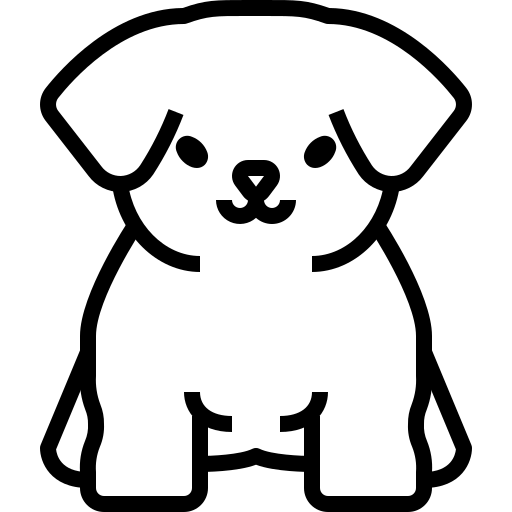
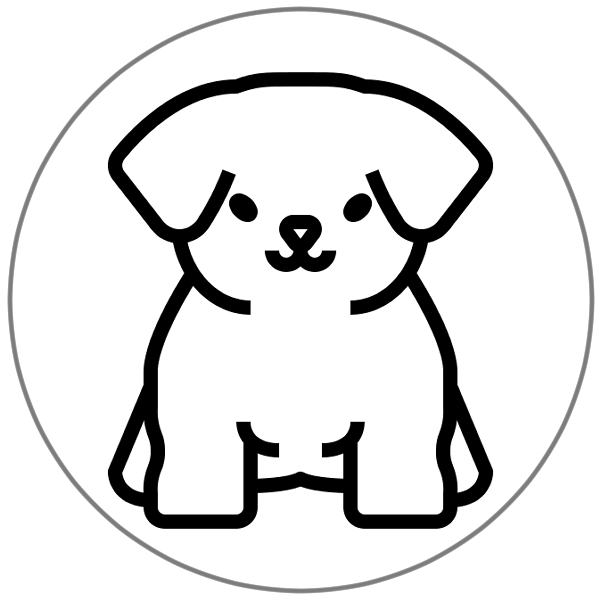
펫 프로필 수정화면에서도 사진 추가, 삭제 시 이미지 수정됨 강아지 기본 이미지 수정

diff --git a/TeamProject/TeamProject/PetModifyScreen.java b/TeamProject/TeamProject/PetModifyScreen.java
@@ -22,12 +22,13 @@ import java.util.Arrays;
 import java.util.Date;
 
 public class PetModifyScreen extends JFrame {
+	
 	private BufferedImage image;
-	private JLabel backLabel, petProfileLabel, deleteLabel, imageLabel, calLabel;
-	private JLabel petNameLabel, petSpecLabel, petBirthLabel, petGenderLabel, petMaleLabel, petFemaleLabel, petDeleteLabel,
+	private JLabel backLabel, petProfileLabel, deleteLabel, calLabel;
+	private JLabel petNameLabel, petSpecLabel, petBirthLabel, petGenderLabel, petMaleLabel, petFemaleLabel,
 			warningLabel;
 	private JTextField petNameTField, petSpecTField, petBirthTField;
-	private JButton petAddProButton, petSpSearchButton, petModifyButton, completionButton;
+	private JButton petAddProButton, petSpSearchButton, petModifyButton, petDeleteButton, completionButton;
 	private JRadioButton petMaleRdButton, petFemaleRdBotton;
 	private String name, spec, birth;
 	TPMgr mgr;
@@ -35,6 +36,7 @@ public class PetModifyScreen extends JFrame {
 	private PetPhotoModifyDialog ppm;
 	private byte[] imageBytes; // 이미지 데이터를 저장할 멤버 변수
 	boolean flag = true;
+	private RoundedImageLabel imageLabel;
 	
 	public PetModifyScreen(JFrame preFrame) {
 		setTitle("프레임 설정");
@@ -103,10 +105,8 @@ public class PetModifyScreen extends JFrame {
 						dispose();
 						new PetHomeScreen(StaticData.pet_id);
 					}
-				} else if (source == petDeleteLabel && petDeleteLabel.isEnabled()) {
+				} else if (source == petDeleteButton && petDeleteButton.isEnabled()) {
 					System.out.println("반려동물 정보 삭제 버튼 클릭됨!");
-					new PetDeleteDialog(PetModifyScreen.this);
-				}else if(source == calLabel && calLabel.isEnabled()) {
 					mgr.delPet(StaticData.pet_id);
 					dispose();
 					if (mgr.isPet(StaticData.user_id)) {
@@ -118,7 +118,7 @@ public class PetModifyScreen extends JFrame {
 					setEnabled(false);
 					new CalendarDialog(PetModifyScreen.this, petBirthTField);
 				} else if (source == petModifyButton) {
-					petDeleteLabel.setEnabled(true);
+					petDeleteButton.setEnabled(true);
 					petAddProButton.setEnabled(true);
 					petSpSearchButton.setEnabled(true);
 					petNameTField.setEnabled(true);
@@ -158,20 +158,24 @@ public class PetModifyScreen extends JFrame {
 		// 메인 프로필 이미지
 		byte[] imgBytes = bean.getPet_image();
 		if (imgBytes == null || imgBytes.length == 0) {
-			imageLabel = new JLabel();
-			imageLabel = createScaledImageLabel("TeamProject/dog.png", 200, 200);
+			// 기본 프로필 이미지 사용
+			ImageIcon icon = new ImageIcon("TeamProject/profile.png");
+			Image img = icon.getImage().getScaledInstance(200, 200, Image.SCALE_SMOOTH);
+			// RoundedImageLabel 사용
+			imageLabel = new RoundedImageLabel(img, 200, 200, 3); // 270은 크기, 3은 둥근 정도
 			imageLabel.setBounds(101, 230, 200, 200);
 			imageLabel.addMouseListener(commonMouseListener);
 			add(imageLabel);
 		} else {
 			// 사용자 이미지가 있을 경우
 			ImageIcon icon = new ImageIcon(imgBytes);
-			Image img = icon.getImage().getScaledInstance(150, 150, Image.SCALE_SMOOTH);
+			Image img = icon.getImage().getScaledInstance(200, 200, Image.SCALE_SMOOTH);
 
 			// RoundedImageLabel 사용
-			RoundedImageLabel roundedProfileImageLabel = new RoundedImageLabel(img, 200, 200, 3); // 100은 둥근 정도
-			roundedProfileImageLabel.setBounds(101, 230, 200, 200);
-			add(roundedProfileImageLabel);
+			imageLabel = new RoundedImageLabel(img, 200, 200, 3); // 270은 크기, 3은 둥근 정도
+			imageLabel.setBounds(101, 230, 200, 200);
+			imageLabel.addMouseListener(commonMouseListener);
+			add(imageLabel);
 		}
 
 		// 경고문
@@ -218,7 +222,7 @@ public class PetModifyScreen extends JFrame {
 		add(petBirthLabel);
 
 		// 반려동물 종 생년월일 필드 추가
-		petBirthTField = new JTextField(bean.getPet_age());
+		petBirthTField = new JTextField();
 		petBirthTField.setForeground(Color.GRAY);
 		petBirthTField.setBounds(43, 696, 100, 40);
 		add(petBirthTField);
@@ -288,13 +292,14 @@ public class PetModifyScreen extends JFrame {
 		add(completionButton);
 
 		// 반려동물 정보 삭제 버튼
-		petDeleteLabel = createScaledImageLabel("TeamProject/pet_delete.png", 40, 40);
-		petDeleteLabel.setBounds(320, 123, 40, 40);
-		petDeleteLabel.setForeground(Color.RED);
-		petDeleteLabel.addMouseListener(commonMouseListener);
-		add(petDeleteLabel);
+		petDeleteButton = new JButton("삭제");
+		petDeleteButton.setBounds(285, 123, 80, 35);
+		petDeleteButton.setBackground(new Color(255, 102, 102));
+		petDeleteButton.setForeground(Color.WHITE);
+		petDeleteButton.addMouseListener(commonMouseListener);
+		add(petDeleteButton);
 
-		petDeleteLabel.setEnabled(false);
+		petDeleteButton.setEnabled(false);
 		petAddProButton.setEnabled(false);
 		petSpSearchButton.setEnabled(false);
 		petNameTField.setEnabled(false);
@@ -358,8 +363,9 @@ public class PetModifyScreen extends JFrame {
 		return new JLabel(new ImageIcon(scaledImage));
 	}
 
-	public JLabel getImageLabel() {
-		return imageLabel;
+	// 이미지 레이블 반환 타입을 RoundedImageLabel로 수정
+		public RoundedImageLabel getImageLabel() {
+		    return imageLabel;
 	}
 
 	// 이미지 바이트 배열을 설정하는 setter

diff --git a/TeamProject/TeamProject/PetPhotoModifyDialog.java b/TeamProject/TeamProject/PetPhotoModifyDialog.java
@@ -118,8 +118,9 @@ public class PetPhotoModifyDialog extends JFrame {
 	        ImageIcon resizedIcon = new ImageIcon(resizedImg);
 
 	        // 미리보기 업데이트
-	        petModifyScreen.getImageLabel().setIcon(resizedIcon);
-	        petModifyScreen.getImageLabel().setText(""); // 텍스트 제거
+	        RoundedImageLabel imageLabel = petModifyScreen.getImageLabel();
+			imageLabel.setImage(resizedImg); // 이미지를 새로 설정
+			imageLabel.repaint(); // UI 갱신
 
 	        // 이미지를 byte[]로 변환
 	        byte[] imageBytes = convertFileToByteArray(selectedFile);
@@ -148,8 +149,9 @@ public class PetPhotoModifyDialog extends JFrame {
 		ImageIcon resizedIcon = new ImageIcon(resizedImg);
 
 		// 미리보기 업데이트
-		petModifyScreen.getImageLabel().setIcon(resizedIcon);
-		petModifyScreen.getImageLabel().setText(""); // 텍스트 제거
+	    RoundedImageLabel imageLabel = petModifyScreen.getImageLabel();
+	    imageLabel.setImage(resizedImg);  // 이미지를 새로 설정
+	    imageLabel.repaint();  // UI 갱신
 
 		// 이미지를 byte[]로 변환
 		byte[] imageBytes = convertFileToByteArray(selectedFile);
